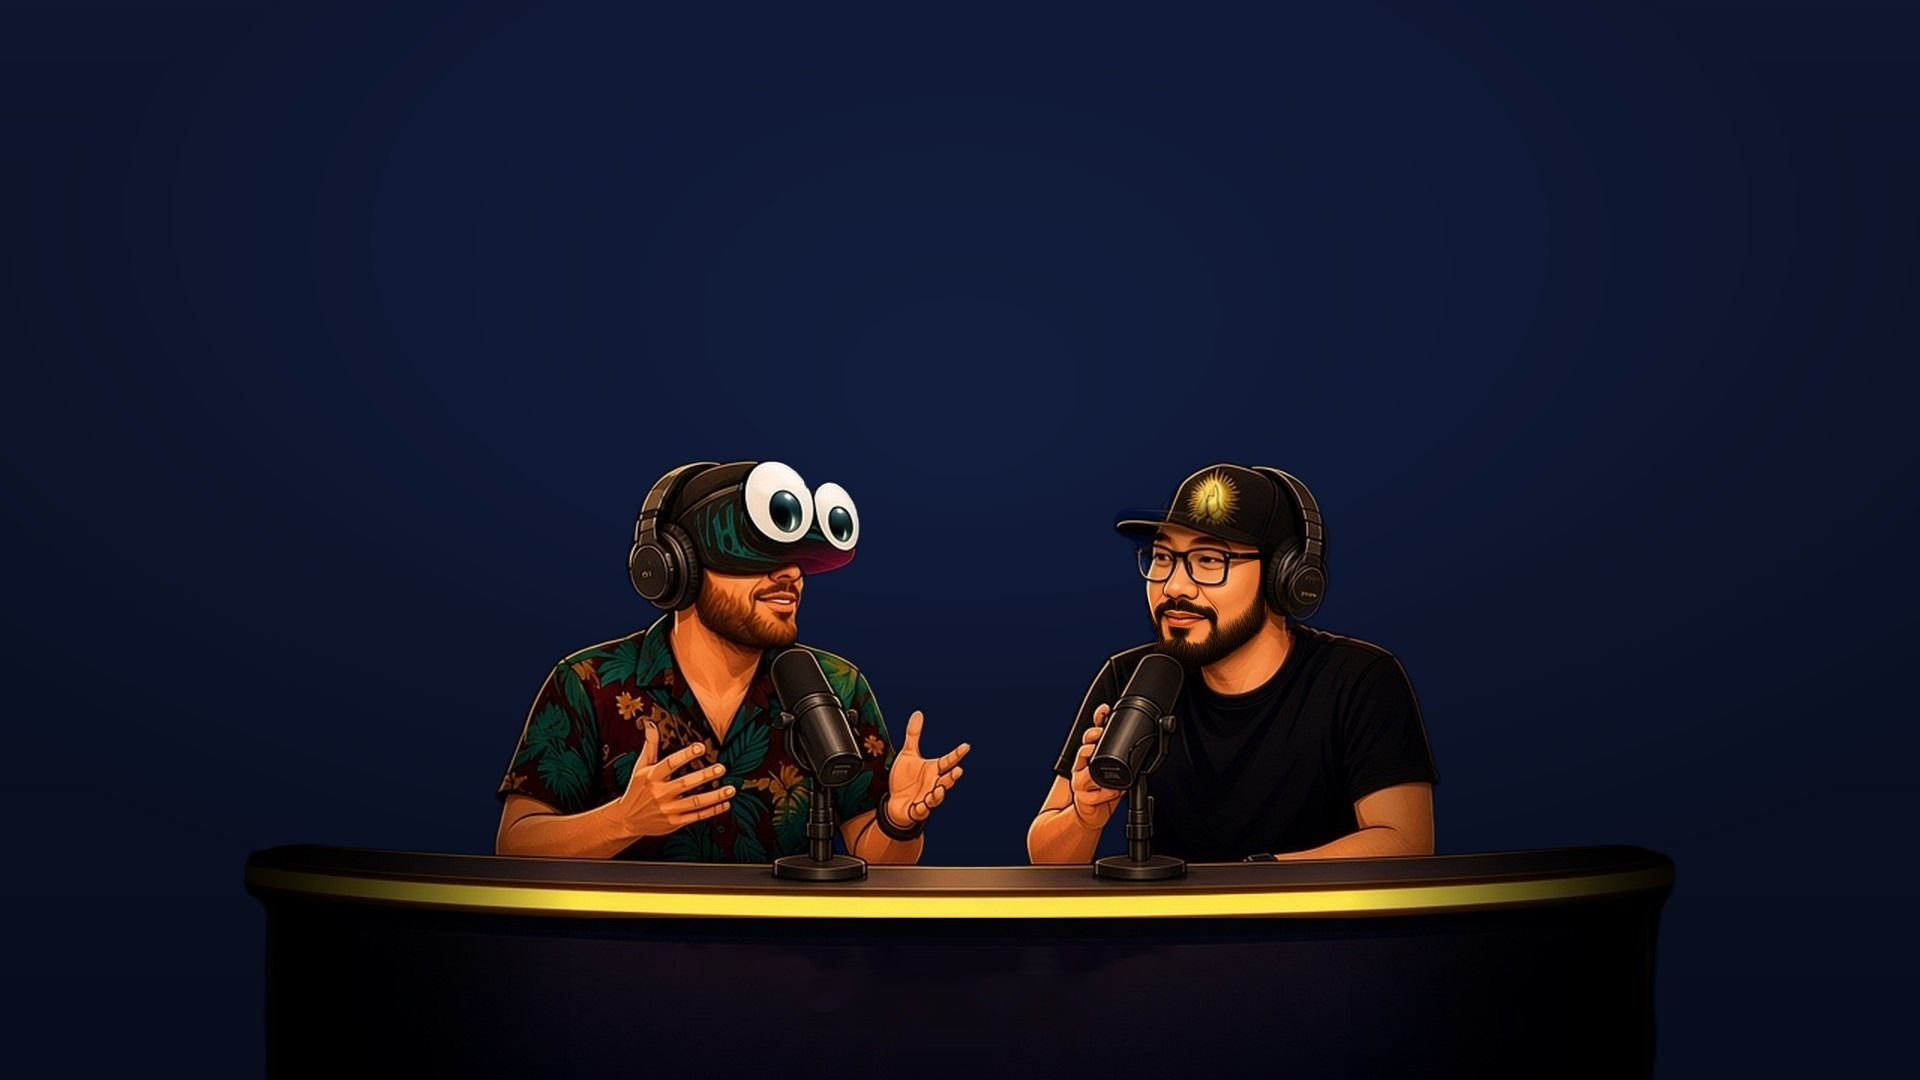
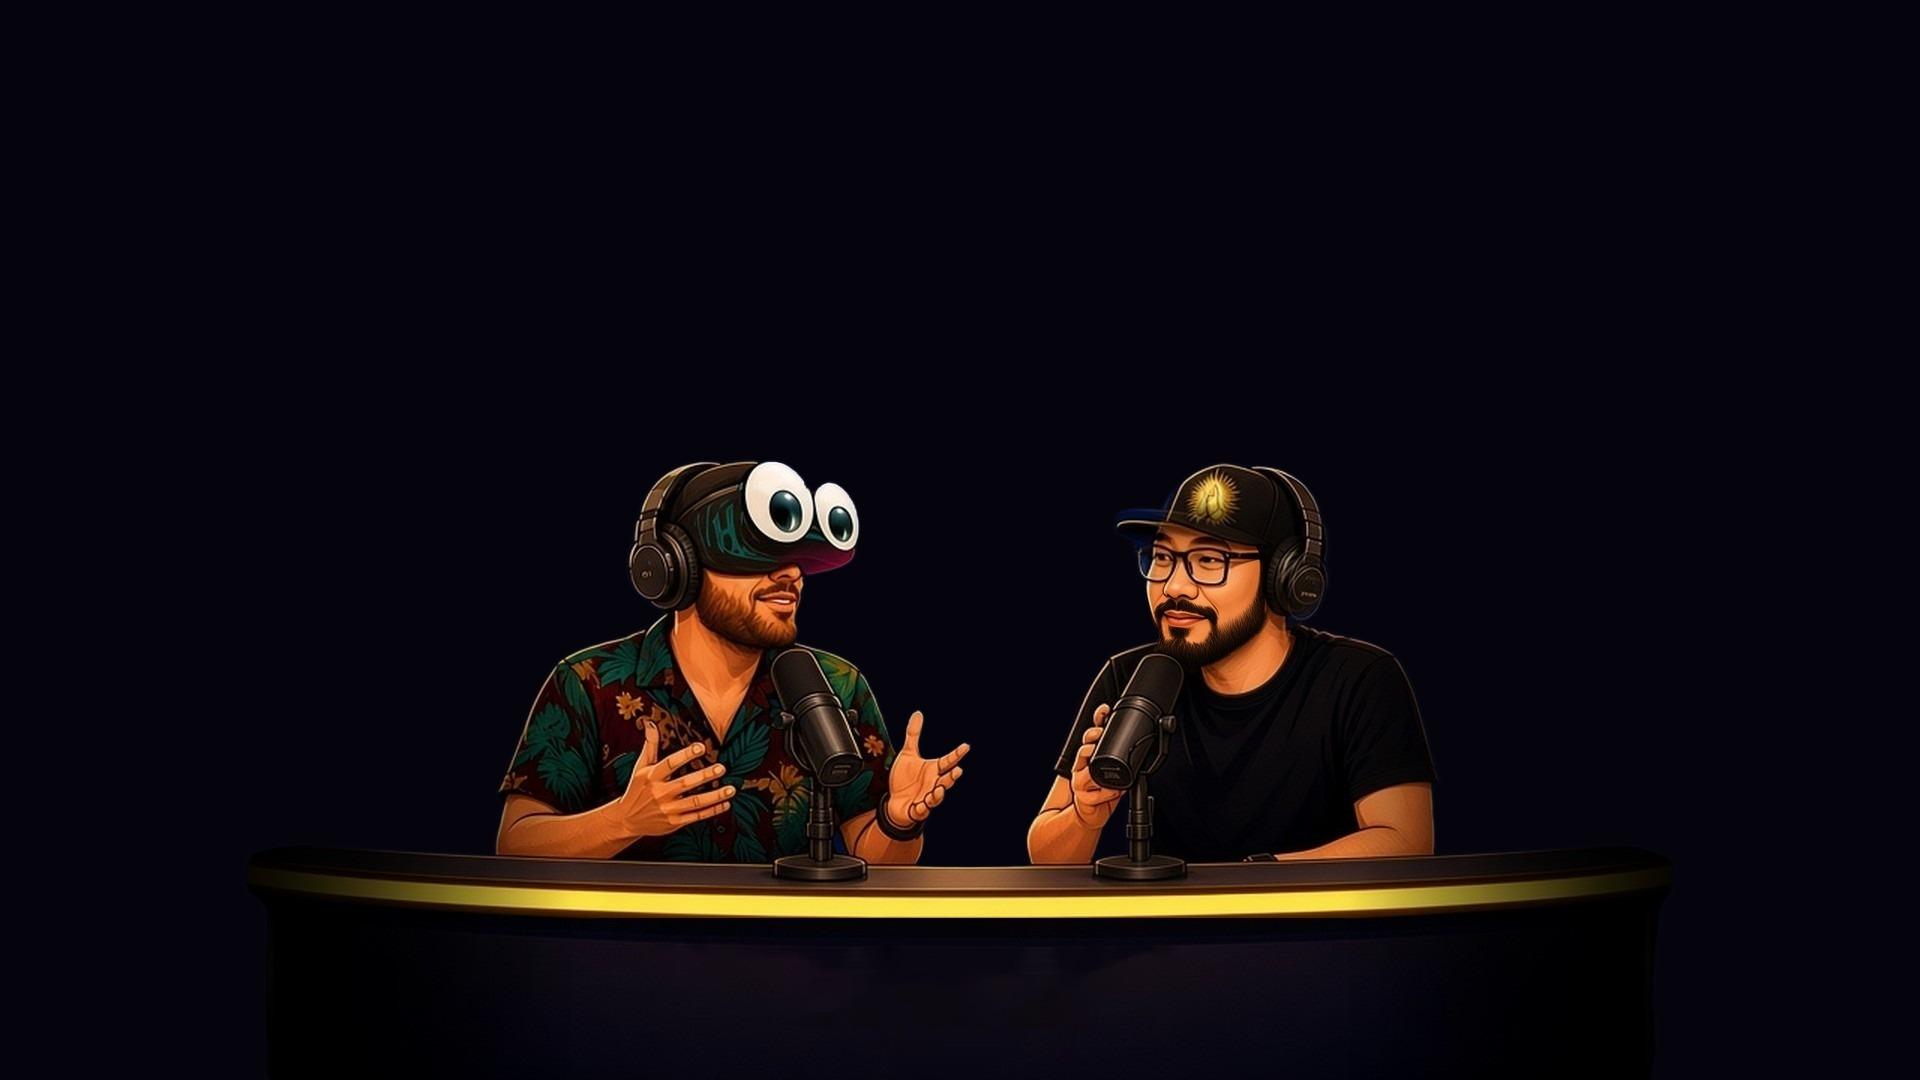
Shows desk: lower mark, soft glow, restore vapor dissolve
Desktop CcWordmark drops onto the desk front; glow reduced to a
1px hint. Newsdesk art alpha restored (9661af0 RGB rewrite had
covered the floor grid). Vapor masks dissolve softly toward the
horizon behind the hosts on phone and desktop.

diff --git a/app/styles/theme.css b/app/styles/theme.css
@@ -2698,19 +2698,26 @@ p {
   backface-visibility: hidden;
   opacity: 1;
   filter: none;
+  /* Dissolve into the distance (horizon = top of the rotated plane). */
   -webkit-mask-image: linear-gradient(
     to bottom,
     transparent 0%,
-    #000 4%,
-    #000 88%,
-    rgba(0, 0, 0, 0.55) 100%
+    transparent 6%,
+    rgba(0, 0, 0, 0.12) 14%,
+    rgba(0, 0, 0, 0.4) 28%,
+    rgba(0, 0, 0, 0.75) 42%,
+    #000 58%,
+    #000 100%
   );
   mask-image: linear-gradient(
     to bottom,
     transparent 0%,
-    #000 4%,
-    #000 88%,
-    rgba(0, 0, 0, 0.55) 100%
+    transparent 6%,
+    rgba(0, 0, 0, 0.12) 14%,
+    rgba(0, 0, 0, 0.4) 28%,
+    rgba(0, 0, 0, 0.75) 42%,
+    #000 58%,
+    #000 100%
   );
 }
 /* Mobile: screen-space horizontal hairlines (no 3D) + soft vignette.
@@ -2754,13 +2761,21 @@ p {
   -webkit-mask-image: linear-gradient(
     to bottom,
     transparent 0%,
-    #000 6%,
+    transparent 5%,
+    rgba(0, 0, 0, 0.15) 12%,
+    rgba(0, 0, 0, 0.45) 26%,
+    rgba(0, 0, 0, 0.8) 40%,
+    #000 55%,
     #000 100%
   );
   mask-image: linear-gradient(
     to bottom,
     transparent 0%,
-    #000 6%,
+    transparent 5%,
+    rgba(0, 0, 0, 0.15) 12%,
+    rgba(0, 0, 0, 0.45) 26%,
+    rgba(0, 0, 0, 0.8) 40%,
+    #000 55%,
     #000 100%
   );
 }
@@ -2844,9 +2859,8 @@ p {
   height: auto;
   transform: translateX(-50%);
   color: #f0d78c;
-  filter:
-    drop-shadow(0 0 0.45rem rgba(240, 215, 140, 0.65))
-    drop-shadow(0 0 0.1rem rgba(255, 230, 160, 0.9));
+  /* Barely-there edge so gold holds on dark desk — no bloom. */
+  filter: drop-shadow(0 0 1px rgba(240, 215, 140, 0.28));
   pointer-events: none;
 }
 .shows-studio__hero picture {
@@ -3106,6 +3120,27 @@ p {
     filter: drop-shadow(0 0 6px rgba(106, 60, 255, 0.55));
     -webkit-backface-visibility: visible;
     backface-visibility: visible;
+    /* Soft dissolve toward the horizon behind the hosts — no hard edge. */
+    -webkit-mask-image: linear-gradient(
+      to bottom,
+      transparent 0%,
+      transparent 8%,
+      rgba(0, 0, 0, 0.1) 16%,
+      rgba(0, 0, 0, 0.35) 30%,
+      rgba(0, 0, 0, 0.7) 45%,
+      #000 62%,
+      #000 100%
+    );
+    mask-image: linear-gradient(
+      to bottom,
+      transparent 0%,
+      transparent 8%,
+      rgba(0, 0, 0, 0.1) 16%,
+      rgba(0, 0, 0, 0.35) 30%,
+      rgba(0, 0, 0, 0.7) 45%,
+      #000 62%,
+      #000 100%
+    );
   }
   /* Desktop vignette — not the mobile screen-space horizontals. */
   .shows-studio__scene::after {
@@ -3185,7 +3220,8 @@ p {
     height: auto;
   }
   .shows-studio__desk-mark {
-    bottom: 8.4%;
+    /* Lower on the desk front panel (was 8.4% — sat too high). */
+    bottom: 4.6%;
     width: 28%;
     max-width: 26rem;
   }

diff --git a/app/components/shows-control-room.tsx b/app/components/shows-control-room.tsx
@@ -77,7 +77,7 @@ export function ShowsControlRoom(): React.ReactNode {
           <picture>
             <source srcSet={asset("images/newsdesk-hosts.webp")} type="image/webp" />
             <img
-              src={asset("images/newsdesk-hosts.jpg")}
+              src={asset("images/newsdesk-hosts.png")}
               alt="Basil and Gonz at the Canary Cry news desk"
               width="1920"
               height="1080"
